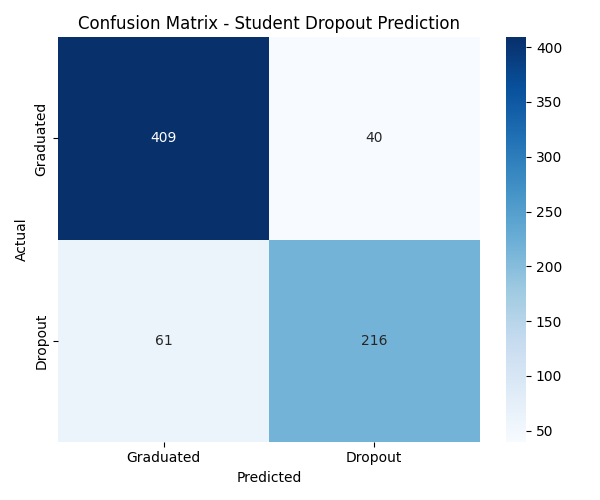
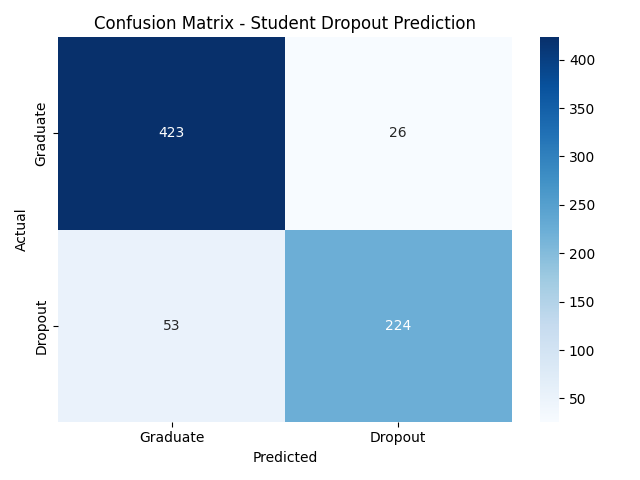
Initial commit - Student Dropout Predictor by Padma Shree

diff --git a/dropout.py b/dropout.py
@@ -1,0 +1,77 @@
+# Student Dropout Predictor
+# By Padma Shree
+# Project 11 of 25
+
+import pandas as pd
+import matplotlib.pyplot as plt
+from sklearn.model_selection import train_test_split
+from sklearn.ensemble import RandomForestClassifier
+from sklearn.metrics import accuracy_score, classification_report, confusion_matrix
+import seaborn as sns
+
+# Step 1 - Load data
+print("=== STUDENT DROPOUT PREDICTOR ===")
+df = pd.read_csv(r"C:\Users\Padma shree jena\Desktop\PadduDS_Journey\05_resources\datasets\student_dropout.csv")
+
+# Step 2 - Understand data
+print("Total records:", len(df))
+print("Columns:", df.columns.tolist())
+print("\nTarget distribution:")
+print(df["Target"].value_counts())
+
+# Step 3 - Prepare data
+print("\n=== TRAINING ML MODEL ===")
+df_model = df[df["Target"] != "Enrolled"].copy()
+df_model["Target"] = df_model["Target"].map({"Graduate": 0, "Dropout": 1})
+
+X = df_model.drop("Target", axis=1)
+y = df_model["Target"]
+
+X_train, X_test, y_train, y_test = train_test_split(X, y, test_size=0.2, random_state=42)
+print("Training samples:", len(X_train))
+print("Testing samples:", len(X_test))
+
+# Step 4 - Train model
+model = RandomForestClassifier(n_estimators=100, random_state=42)
+model.fit(X_train, y_train)
+
+# Step 5 - Evaluate
+y_pred = model.predict(X_test)
+accuracy = accuracy_score(y_test, y_pred)
+print("\nModel Accuracy:", round(accuracy * 100, 2), "%")
+print("\nClassification Report:")
+print(classification_report(y_test, y_pred, target_names=["Graduate", "Dropout"]))
+
+# Step 6 - Charts
+# Chart 1 - Feature importance
+feature_importance = pd.Series(model.feature_importances_, index=X.columns)
+feature_importance.nlargest(10).plot(kind="barh", color="purple", figsize=(10,6))
+plt.title("Top 10 Factors That Predict Student Dropout")
+plt.xlabel("Importance Score")
+plt.tight_layout()
+plt.savefig(r"C:\Users\Padma shree jena\Desktop\PadduDS_Journey\03_phase3\dropout_predictor\feature_importance.png")
+plt.show()
+print("Chart 1 saved!!")
+
+# Chart 2 - Confusion matrix
+cm = confusion_matrix(y_test, y_pred)
+sns.heatmap(cm, annot=True, fmt="d", cmap="Blues",
+            xticklabels=["Graduate", "Dropout"],
+            yticklabels=["Graduate", "Dropout"])
+plt.title("Confusion Matrix - Student Dropout Prediction")
+plt.xlabel("Predicted")
+plt.ylabel("Actual")
+plt.tight_layout()
+plt.savefig(r"C:\Users\Padma shree jena\Desktop\PadduDS_Journey\03_phase3\dropout_predictor\confusion_matrix.png")
+plt.show()
+print("Chart 2 saved!!")
+
+# Chart 3 - Outcome distribution
+df["Target"].value_counts().plot(kind="pie", autopct="%1.1f%%",
+                                  colors=["green", "red", "orange"],
+                                  figsize=(8,8))
+plt.title("Student Outcome Distribution")
+plt.tight_layout()
+plt.savefig(r"C:\Users\Padma shree jena\Desktop\PadduDS_Journey\03_phase3\dropout_predictor\outcome_distribution.png")
+plt.show()
+print("Chart 3 saved!!")
